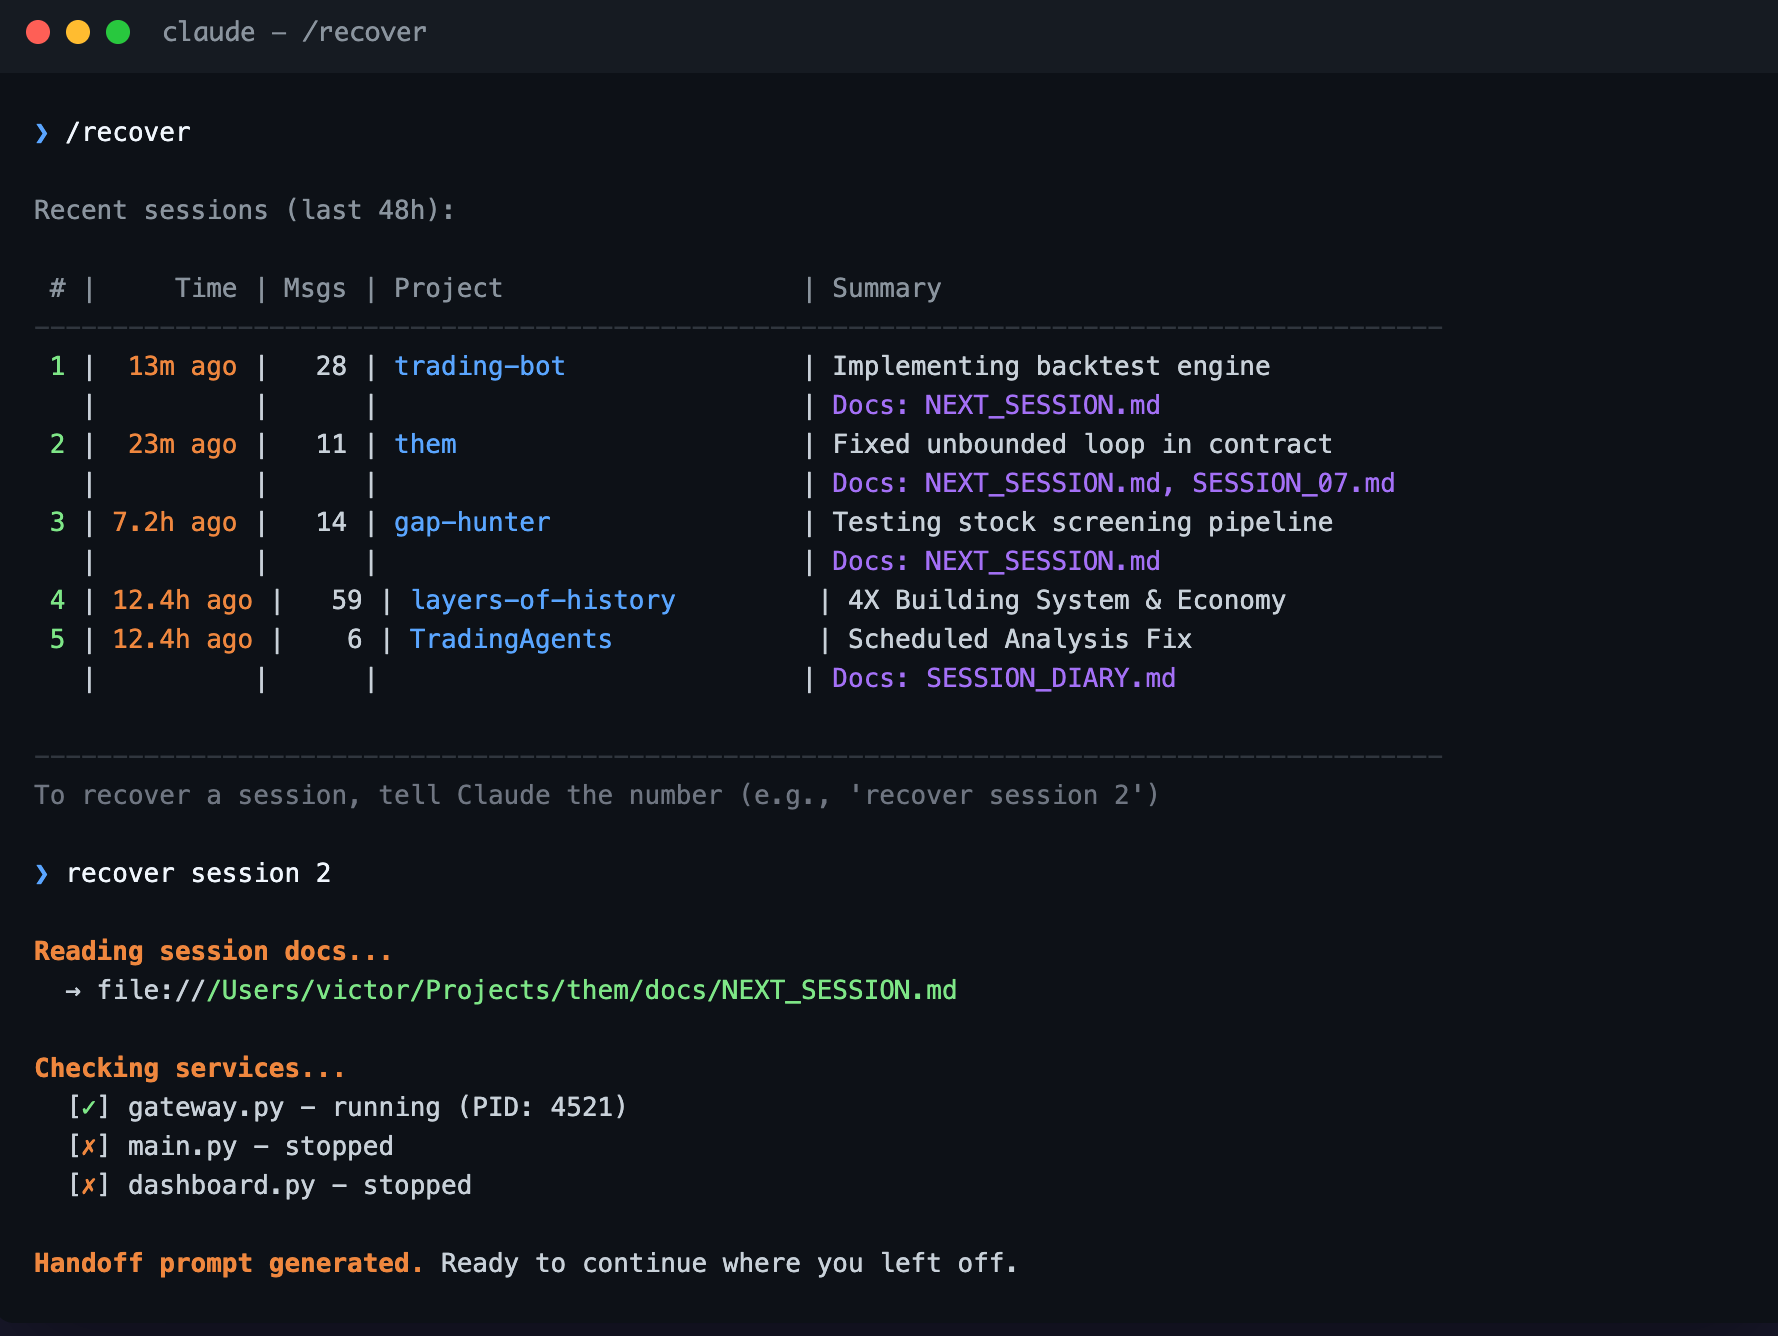
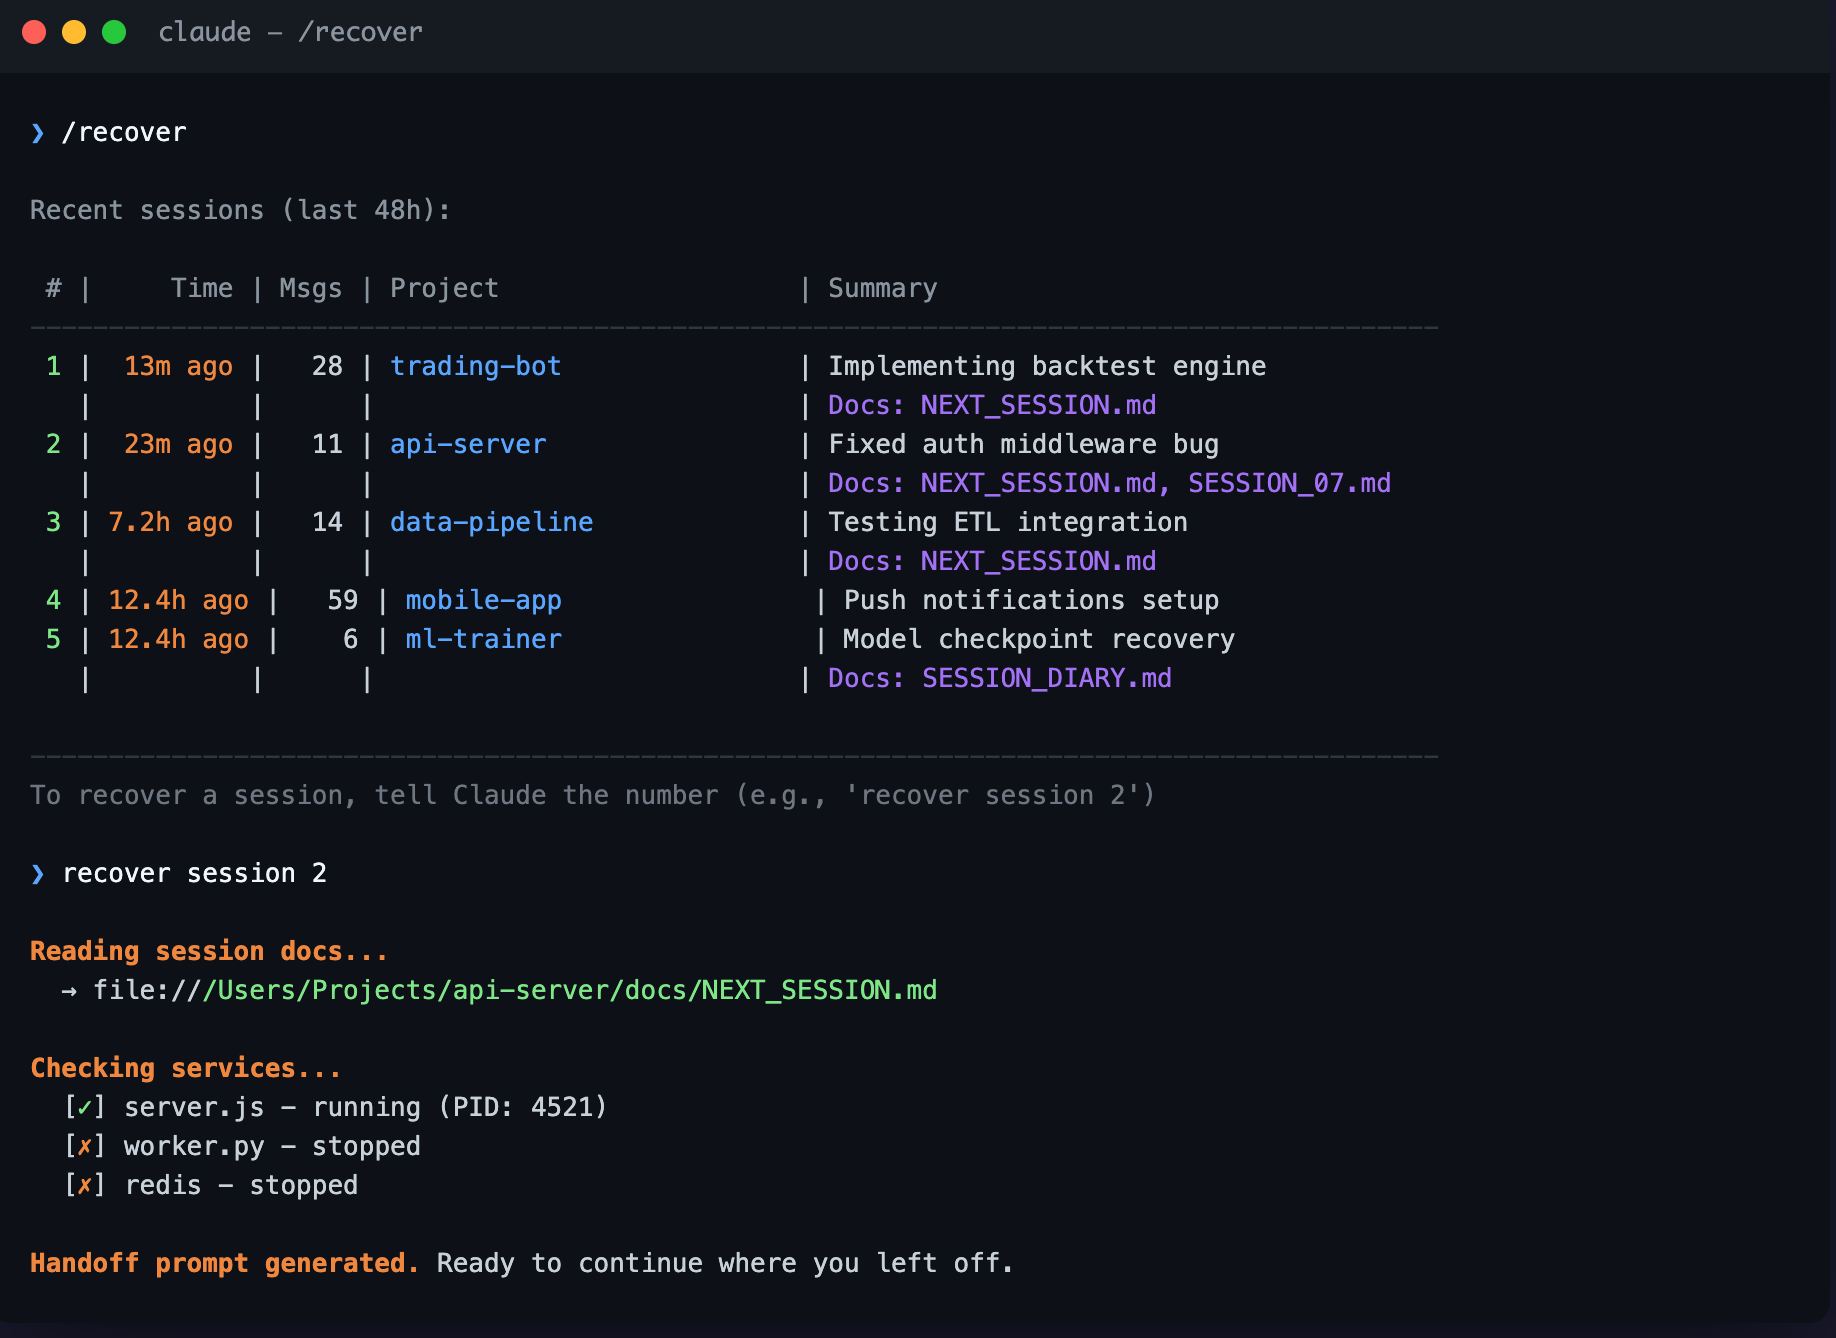
Update demo screenshot with generic paths

diff --git a/demo.html b/demo.html
@@ -1,0 +1,98 @@
+<!DOCTYPE html>
+<html>
+<head>
+  <style>
+    * { margin: 0; padding: 0; box-sizing: border-box; }
+    body {
+      background: #1a1a2e;
+      padding: 20px;
+      font-family: 'SF Mono', 'Monaco', 'Menlo', monospace;
+    }
+    .terminal {
+      background: #0d1117;
+      border-radius: 10px;
+      overflow: hidden;
+      box-shadow: 0 20px 60px rgba(0,0,0,0.5);
+      max-width: 920px;
+      margin: 0 auto;
+    }
+    .titlebar {
+      background: #161b22;
+      padding: 12px 16px;
+      display: flex;
+      align-items: center;
+      gap: 8px;
+    }
+    .btn { width: 12px; height: 12px; border-radius: 50%; }
+    .btn-red { background: #ff5f56; }
+    .btn-yellow { background: #ffbd2e; }
+    .btn-green { background: #27c93f; }
+    .title {
+      color: #8b949e;
+      font-size: 13px;
+      margin-left: 8px;
+    }
+    .content {
+      padding: 20px;
+      color: #c9d1d9;
+      font-size: 13px;
+      line-height: 1.5;
+    }
+    .prompt { color: #58a6ff; }
+    .command { color: #f0f6fc; font-weight: 500; }
+    .header { color: #8b949e; }
+    .divider { color: #30363d; }
+    .num { color: #7ee787; }
+    .time { color: #f0883e; }
+    .project { color: #58a6ff; }
+    .summary { color: #c9d1d9; }
+    .docs { color: #a371f7; }
+    .section-header { color: #f0883e; font-weight: bold; }
+    .filepath { color: #7ee787; }
+    .muted { color: #6e7681; }
+    pre { white-space: pre; }
+  </style>
+</head>
+<body>
+  <div class="terminal">
+    <div class="titlebar">
+      <div class="btn btn-red"></div>
+      <div class="btn btn-yellow"></div>
+      <div class="btn btn-green"></div>
+      <span class="title">claude — /recover</span>
+    </div>
+    <div class="content">
+<pre><span class="prompt">❯</span> <span class="command">/recover</span>
+
+<span class="header">Recent sessions (last 48h):</span>
+
+<span class="header"> # |     Time | Msgs | Project                   | Summary</span>
+<span class="divider">------------------------------------------------------------------------------------------</span>
+<span class="num"> 1</span> |  <span class="time">13m ago</span> |   28 | <span class="project">trading-bot</span>               | <span class="summary">Implementing backtest engine</span>
+   |          |      |                           | <span class="docs">Docs: NEXT_SESSION.md</span>
+<span class="num"> 2</span> |  <span class="time">23m ago</span> |   11 | <span class="project">api-server</span>                | <span class="summary">Fixed auth middleware bug</span>
+   |          |      |                           | <span class="docs">Docs: NEXT_SESSION.md, SESSION_07.md</span>
+<span class="num"> 3</span> | <span class="time">7.2h ago</span> |   14 | <span class="project">data-pipeline</span>             | <span class="summary">Testing ETL integration</span>
+   |          |      |                           | <span class="docs">Docs: NEXT_SESSION.md</span>
+<span class="num"> 4</span> | <span class="time">12.4h ago</span> |   59 | <span class="project">mobile-app</span>                | <span class="summary">Push notifications setup</span>
+<span class="num"> 5</span> | <span class="time">12.4h ago</span> |    6 | <span class="project">ml-trainer</span>                | <span class="summary">Model checkpoint recovery</span>
+   |          |      |                           | <span class="docs">Docs: SESSION_DIARY.md</span>
+
+<span class="divider">------------------------------------------------------------------------------------------</span>
+<span class="muted">To recover a session, tell Claude the number (e.g., 'recover session 2')</span>
+
+<span class="prompt">❯</span> <span class="command">recover session 2</span>
+
+<span class="section-header">Reading session docs...</span>
+  → file://<span class="filepath">/Users/Projects/api-server/docs/NEXT_SESSION.md</span>
+
+<span class="section-header">Checking services...</span>
+  [<span class="num">✓</span>] server.js - running (PID: 4521)
+  [<span class="time">✗</span>] worker.py - stopped
+  [<span class="time">✗</span>] redis - stopped
+
+<span class="section-header">Handoff prompt generated.</span> Ready to continue where you left off.</pre>
+    </div>
+  </div>
+</body>
+</html>
